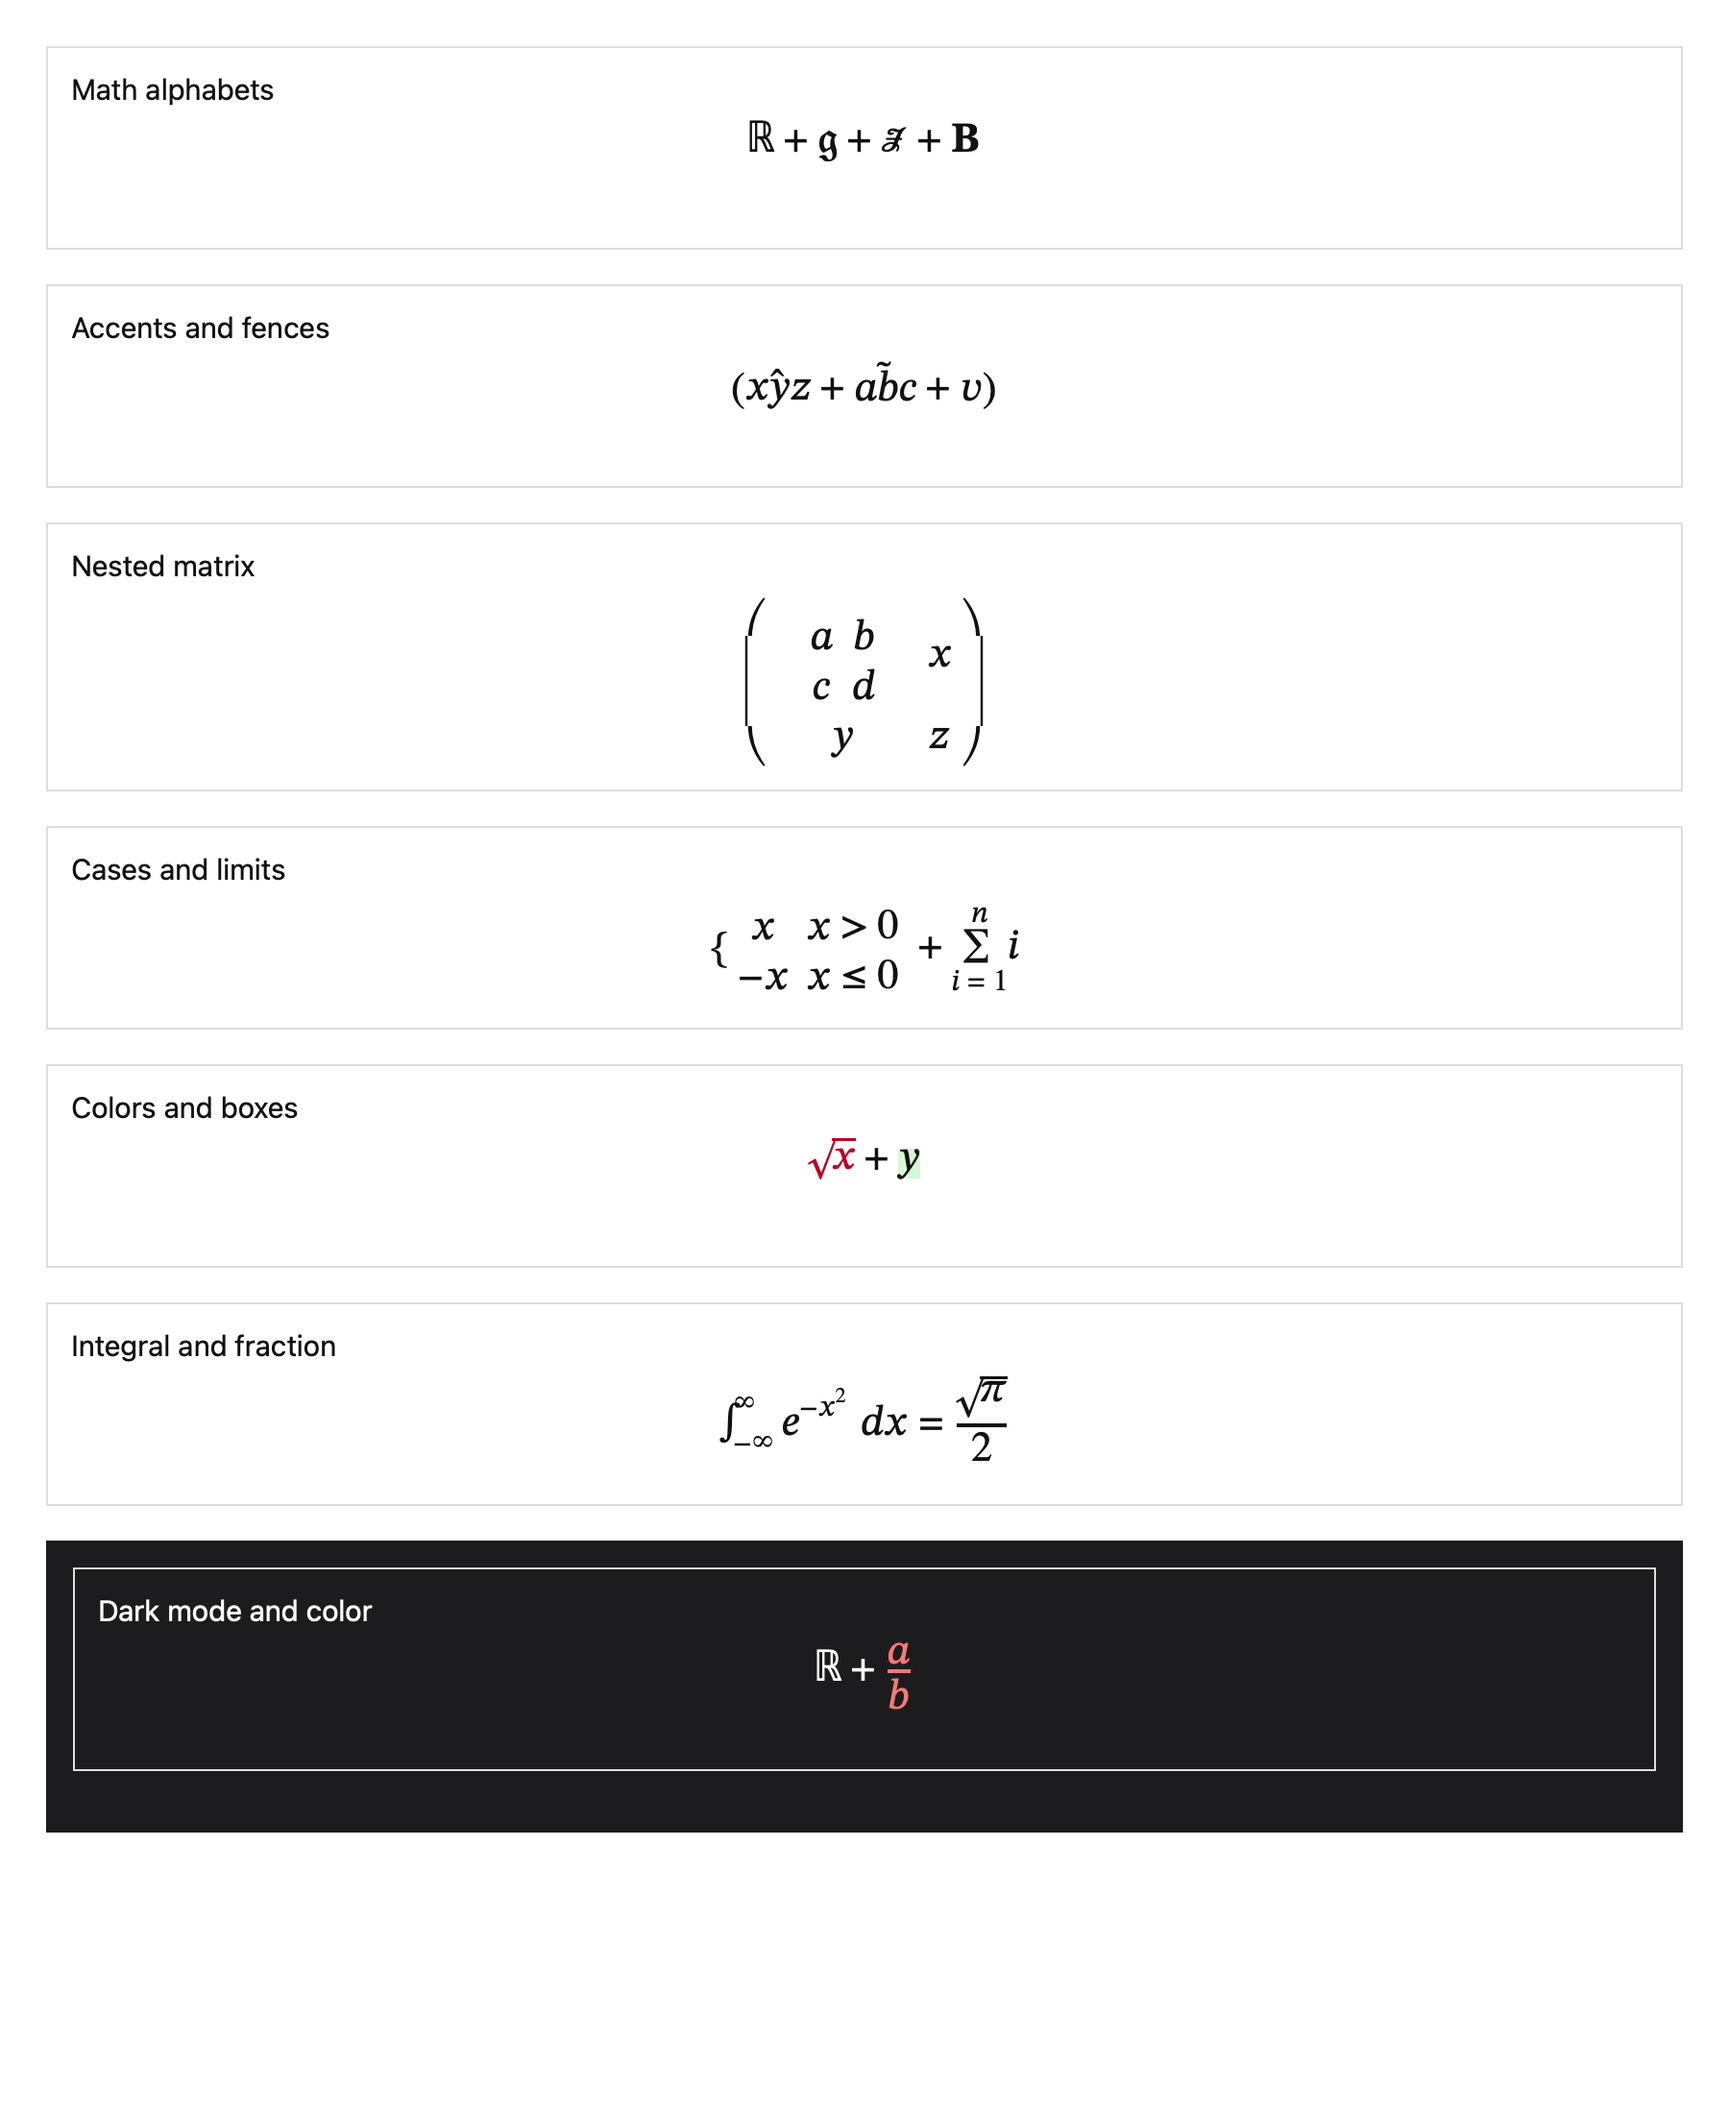
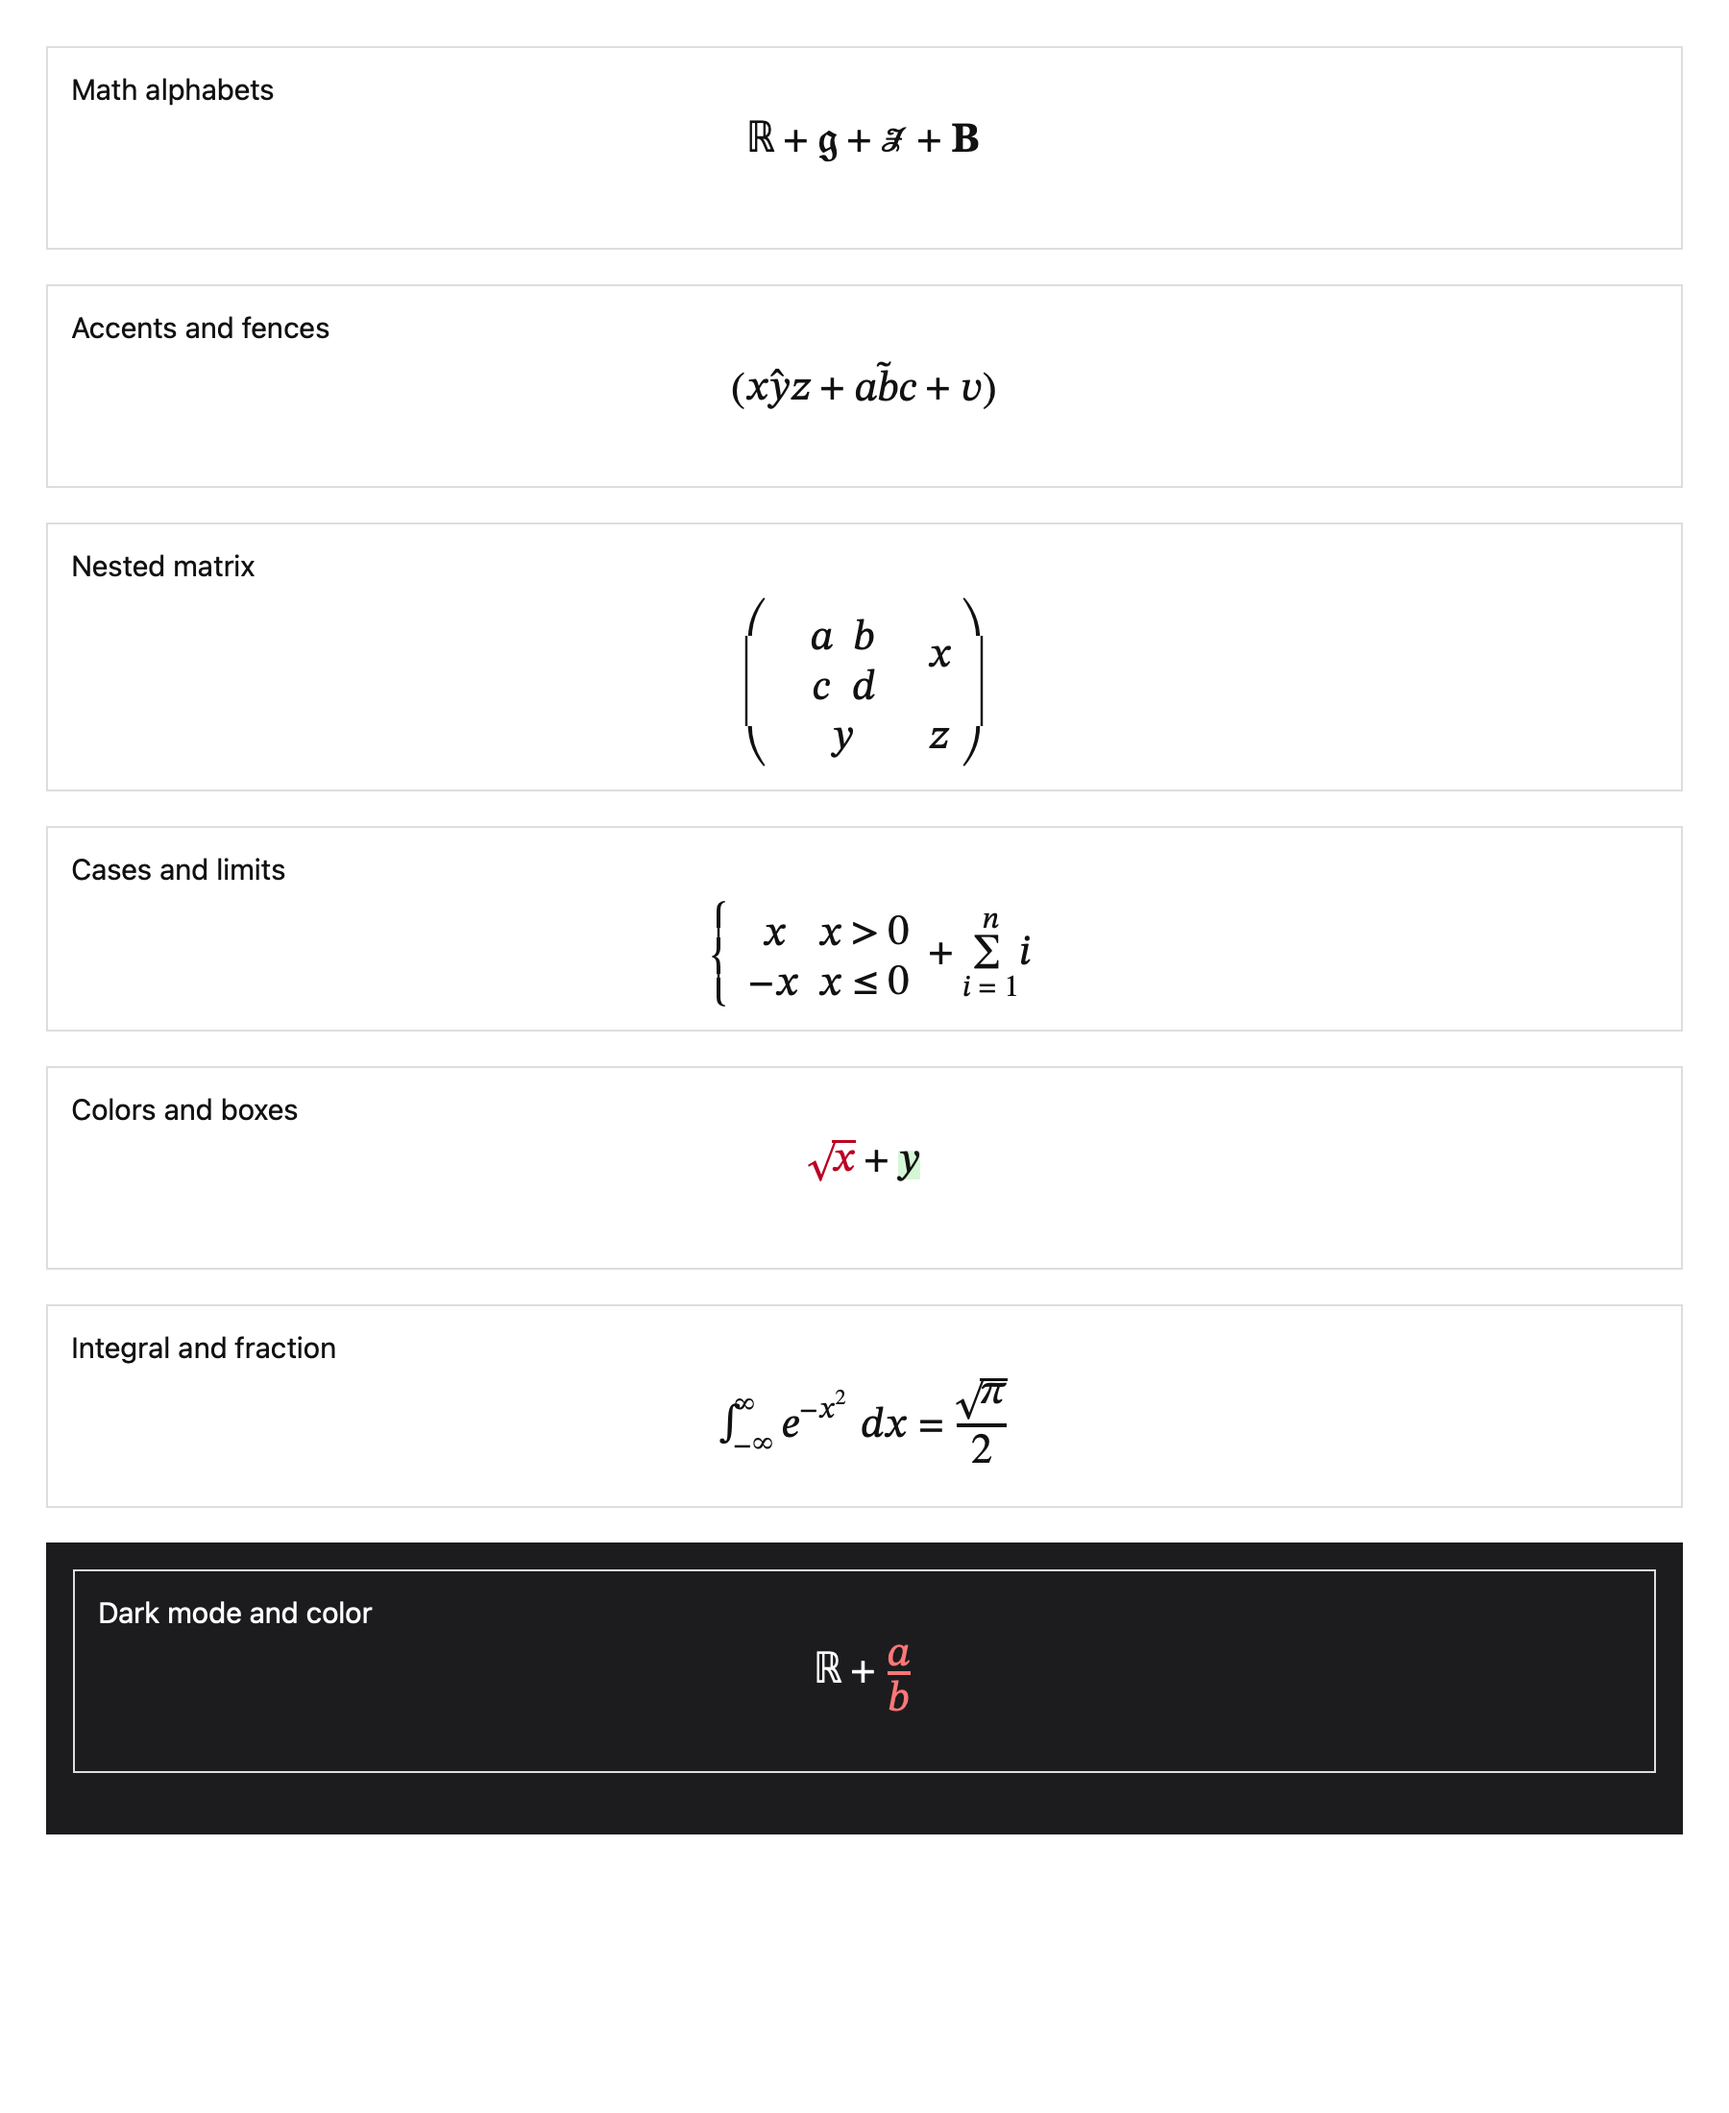
Fix cases brace height in native MathML renderer

diff --git a/Tests/SmoothMarkdownTests/NativeMathMLTests.swift b/Tests/SmoothMarkdownTests/NativeMathMLTests.swift
@@ -22,6 +22,13 @@ final class NativeMathMLTests: XCTestCase {
         XCTAssertTrue(html.contains("<mtable>"))
     }
 
+    func testCasesBraceHasRowBasedMinimumHeight() {
+        let oneRow = NativeMathML.html("\\begin{cases}x&x>0\\end{cases}", display: true)
+        let twoRows = NativeMathML.html("\\begin{cases}x&x>0\\\\-x&x<0\\end{cases}", display: true)
+        XCTAssertTrue(oneRow.contains("minsize=\"1.25em\">{</mo>"))
+        XCTAssertTrue(twoRows.contains("minsize=\"2.5em\">{</mo>"))
+    }
+
     func testMathWhitespaceAndExplicitTextSpacing() {
         let math = NativeMathML.html("\\frac{\\partial}{\\partial t}", display: true)
         XCTAssertFalse(math.contains("<mspace"))
@@ -114,6 +121,22 @@ extension NativeMathMLTests {
         web.navigationDelegate = delegate
         web.loadHTMLString(html, baseURL: nil)
         wait(for: [finished], timeout: 15)
+        let measured = expectation(description: "cases fence and table measured")
+        var casesHeights: [NSNumber]?
+        web.evaluateJavaScript("""
+            (() => { const card = document.querySelectorAll('.card')[3];
+              return [card.querySelector('mo').getBoundingClientRect().height,
+                      card.querySelector('mtable').getBoundingClientRect().height]; })()
+            """) { result, error in
+            XCTAssertNil(error)
+            casesHeights = result as? [NSNumber]
+            measured.fulfill()
+        }
+        wait(for: [measured], timeout: 15)
+        let heights = try XCTUnwrap(casesHeights)
+        XCTAssertEqual(heights.count, 2)
+        XCTAssertGreaterThan(heights[0].doubleValue, heights[1].doubleValue * 0.8,
+                             "The cases opening brace should span its two-row table")
         let captured = expectation(description: "gallery snapshot")
         var snapshot: NSImage?
         web.takeSnapshot(with: nil) { image, _ in snapshot = image; captured.fulfill() }

diff --git a/Sources/SmoothMarkdown/NativeMathML.swift b/Sources/SmoothMarkdown/NativeMathML.swift
@@ -85,8 +85,15 @@ enum NativeMathML {
         case let .alignedMatrix(rows, left, right, columns):
             return "<mrow><mo stretchy=\"true\">\(escape(left))</mo>\(table(rows, columns: columns, display: display))<mo stretchy=\"true\">\(escape(right))</mo></mrow>"
         case let .environment(name, columns, rows):
-            let left = name == "cases" ? "<mo stretchy=\"true\">{</mo>" : ""
-            return "<mrow>\(left)\(table(rows, columns: columns, display: display))</mrow>"
+            if name == "cases" {
+                // WebKit does not grow a lone stretchy opening brace to an mtable.
+                // Give it a row-based minimum; stretchy still handles a taller
+                // table where supported by the system renderer.
+                let minHeight = Double(rows.count) * 1.25
+                return "<mrow><mo fence=\"true\" stretchy=\"true\" minsize=\"\(minHeight)em\">{</mo>" +
+                    table(rows, columns: columns, display: display) + "</mrow>"
+            }
+            return "<mrow>\(table(rows, columns: columns, display: display))</mrow>"
         }
     }
 
